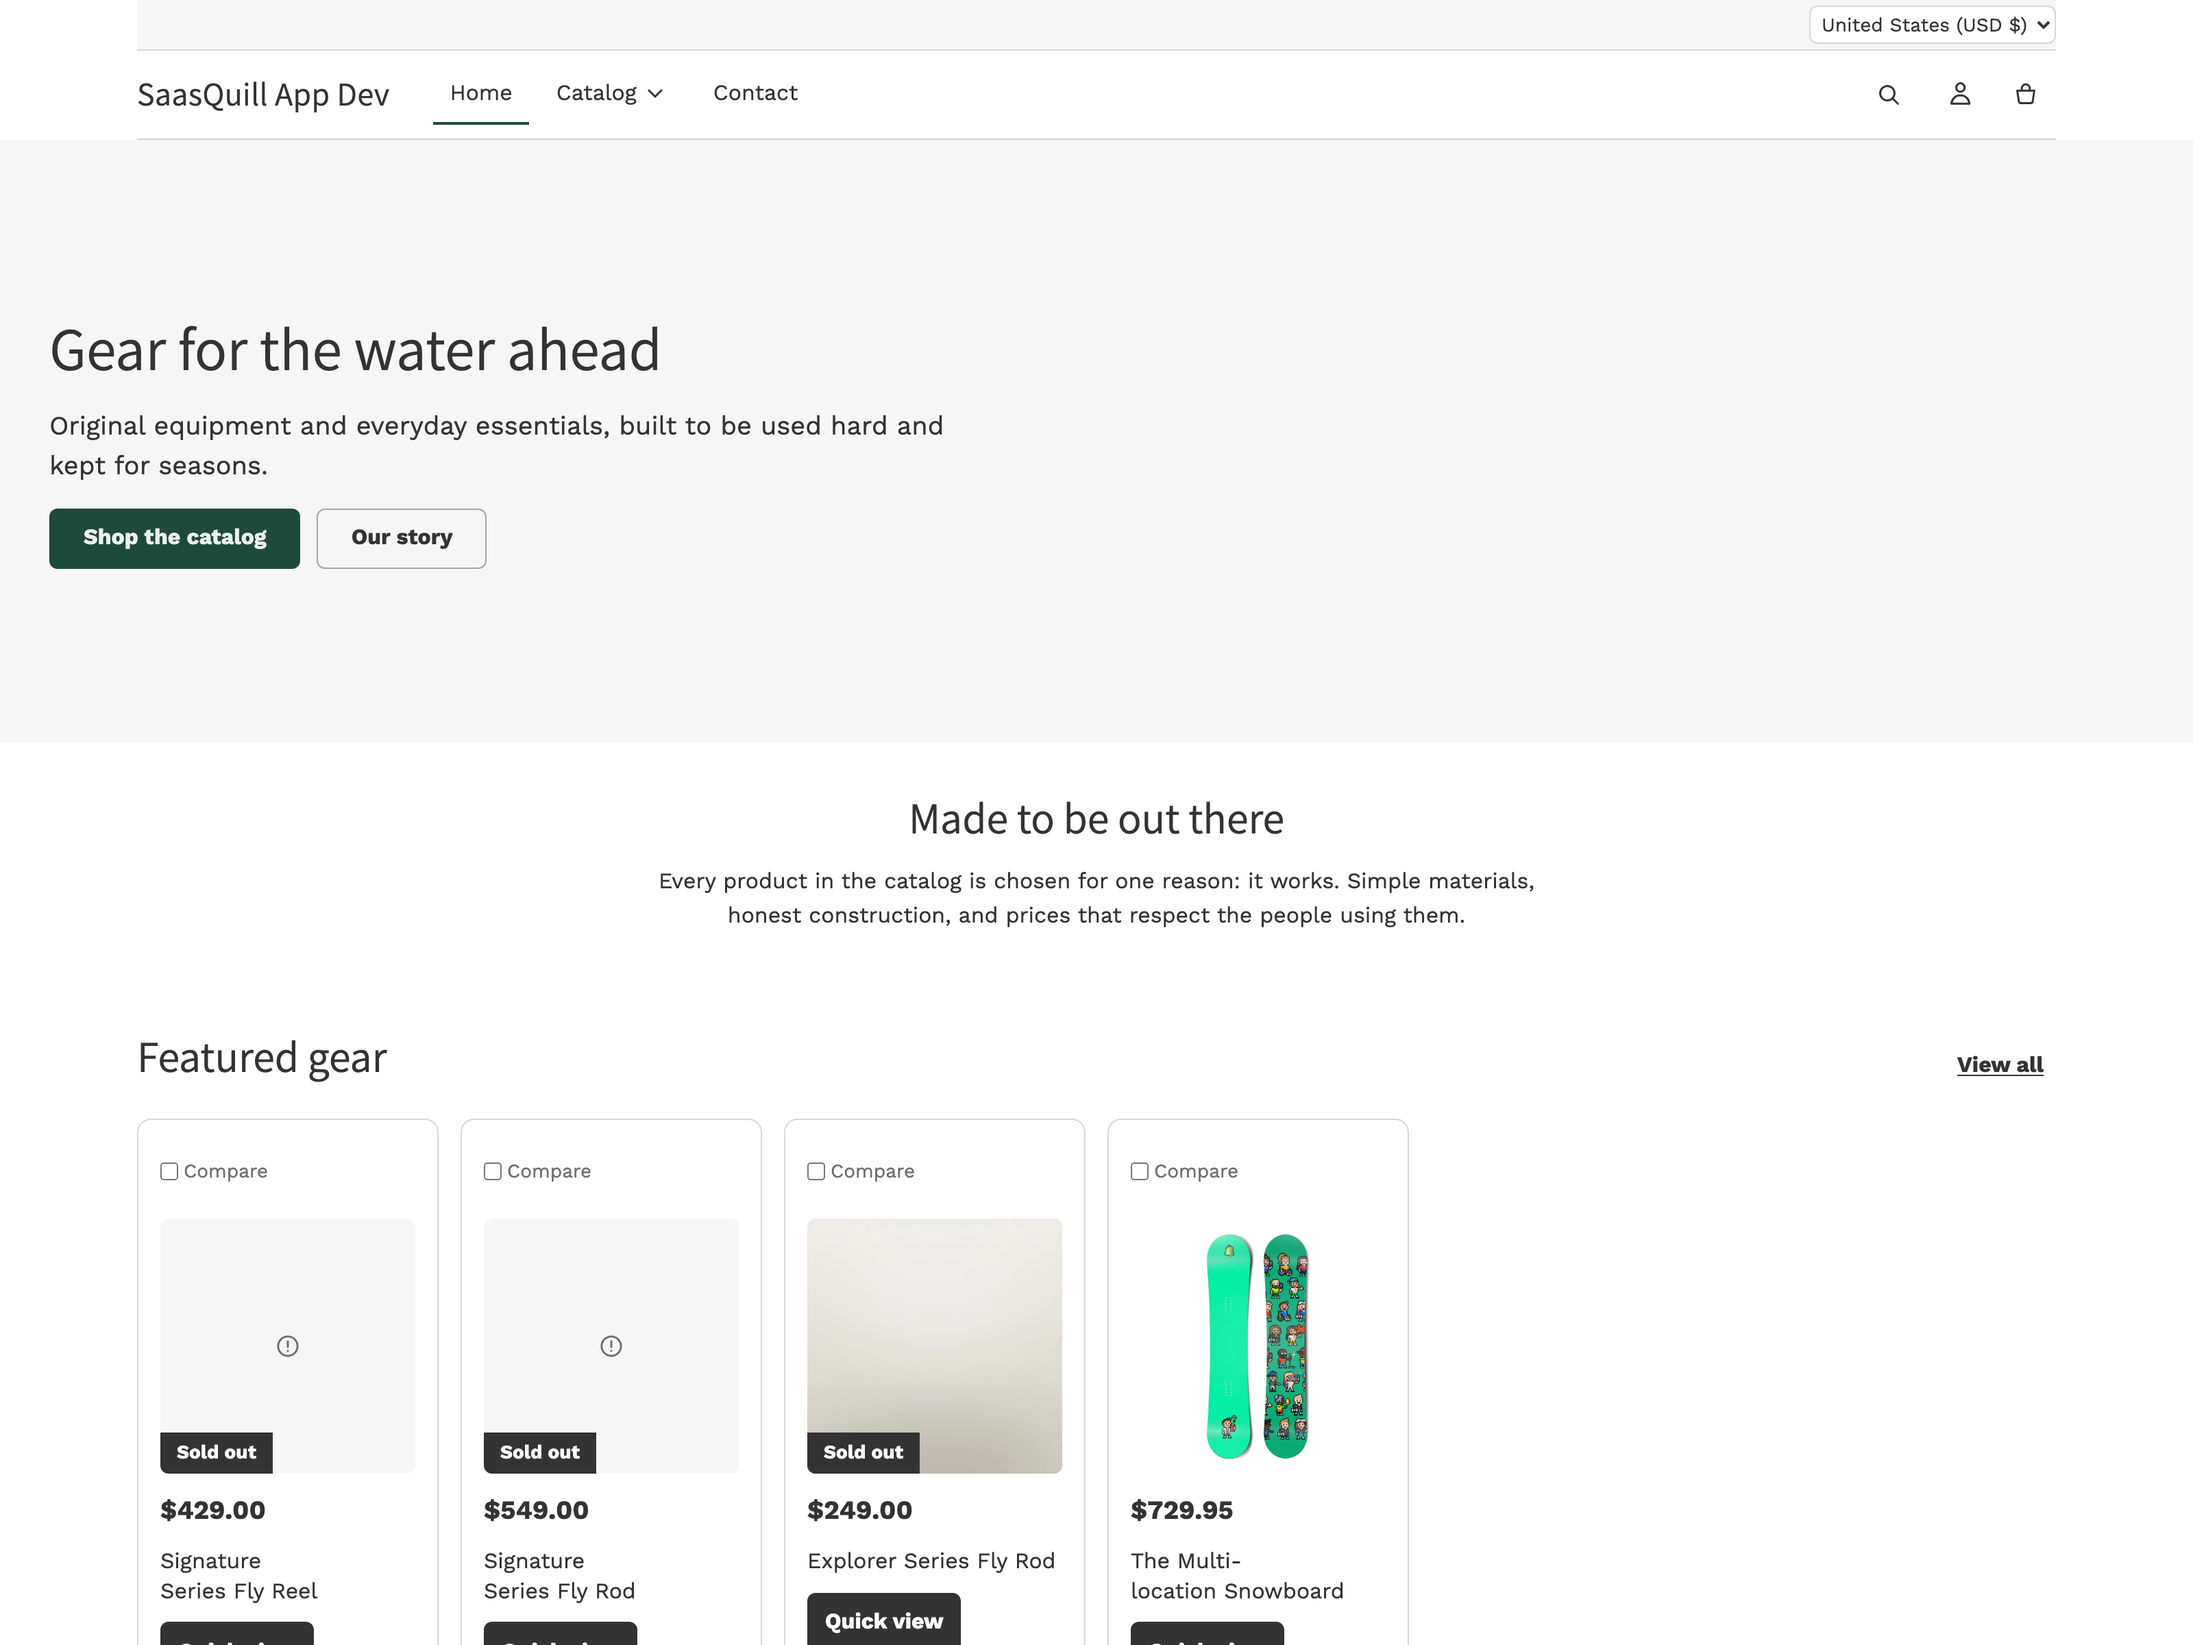
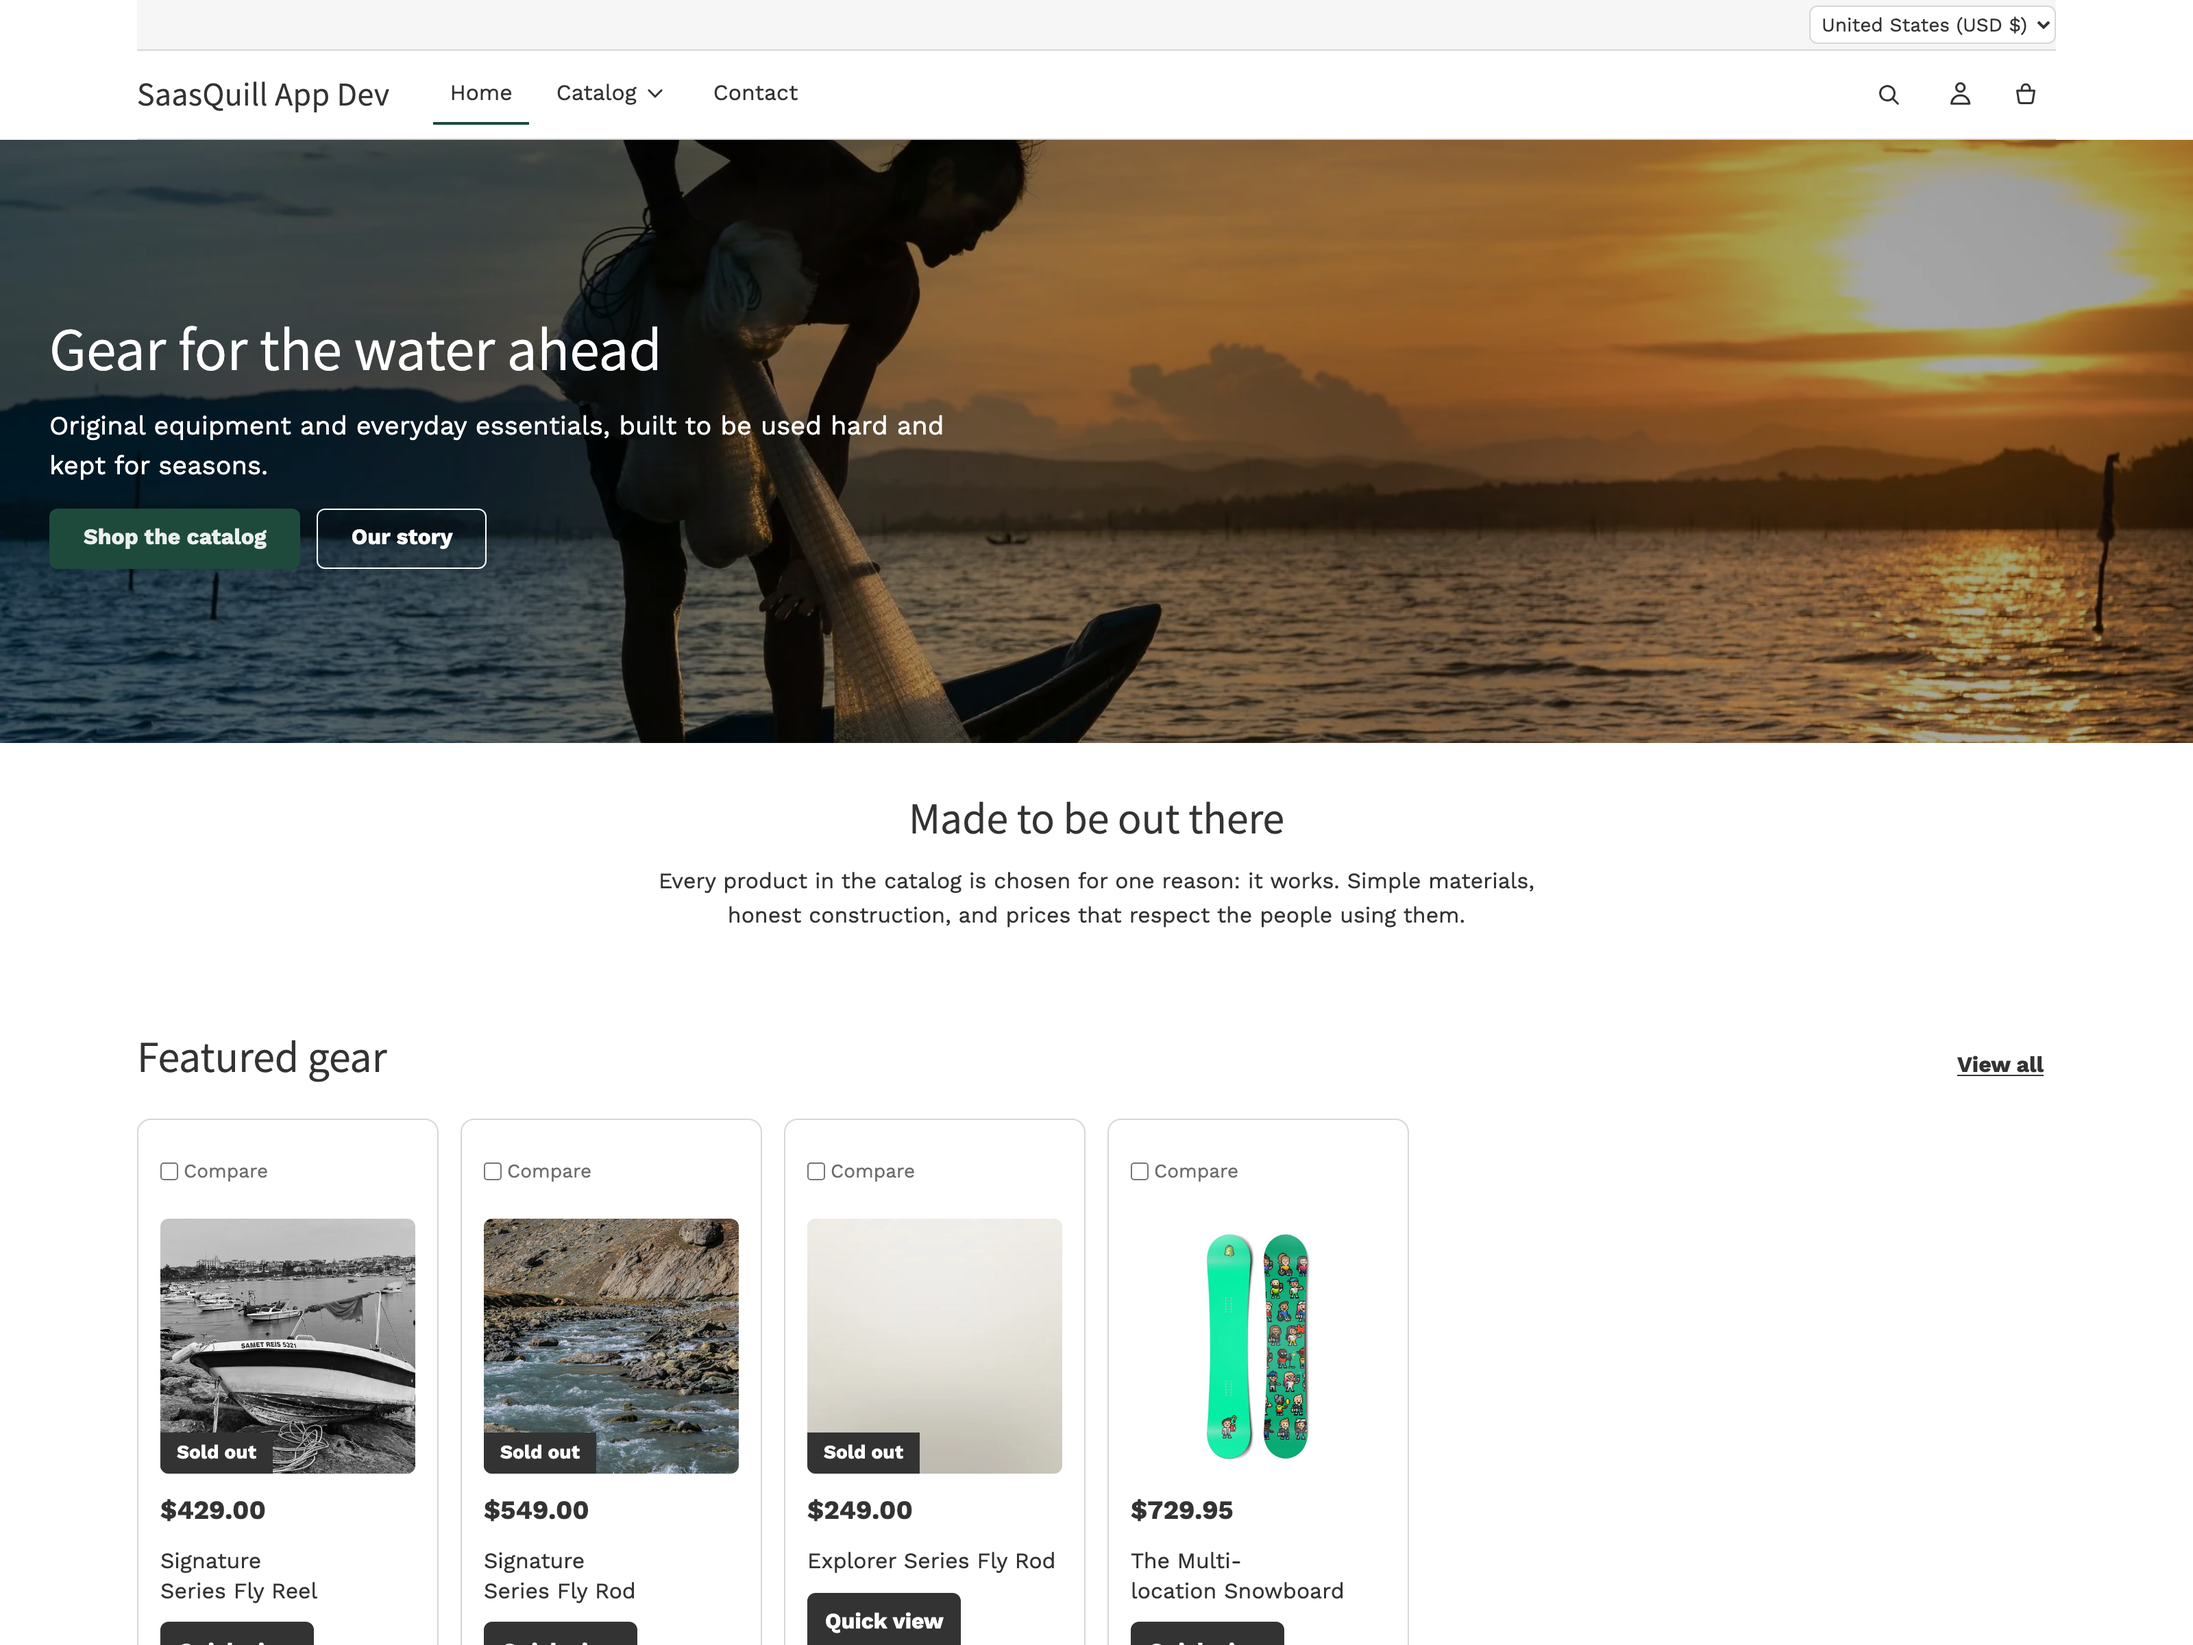
Demo photography (Pexels, rights-clean) + re-shot listing screenshots
Per merchant direction the RoxStar-sourced plan was dropped before any
asset reached the store; imagery is now Pexels stock (free commercial
license, credits in docs/DEMO-IMAGE-CREDITS.txt):
- 12 photos uploaded to store Files; 10 products imaged via the admin
  media picker (one mis-attach caught by storefront verification and
  corrected); hero (overlay 45%) + image-with-text wired via
  shopify://shop_images in templates/index.json
- all 11 listing screenshots re-captured with imagery in place
- LISTING.md updated (imagery/credits section)

diff --git a/docs/LISTING.md b/docs/LISTING.md
@@ -61,9 +61,14 @@ value speed and clarity.
 | 08-search-desktop | Search results |
 | 09–11 mobile | Home / product / collection |
 
+## Demo imagery
+Rights-clean stock photography from Pexels (free for commercial use, no
+attribution required) — see docs/DEMO-IMAGE-CREDITS.txt for photo IDs.
+Hero, image-with-text, and 10 fixture products are imaged; screenshots
+re-shot with the imagery in place. Per merchant direction, no
+photography from the merchant's own stores is used.
+
 ## Before submission
-- Replace dev-store fixtures with listing-grade demo content and real
-  photography (hero + image-with-text are un-imaged today).
-- Re-shoot on the demo store; current set uses saasquill-app-dev
-  fixtures and Shopify sample products.
 - Demo store URL and support contact for the listing form.
+- Optional: image the remaining fixtures (tying tools, hoodie, fly box)
+  with matching stock or original photography.
